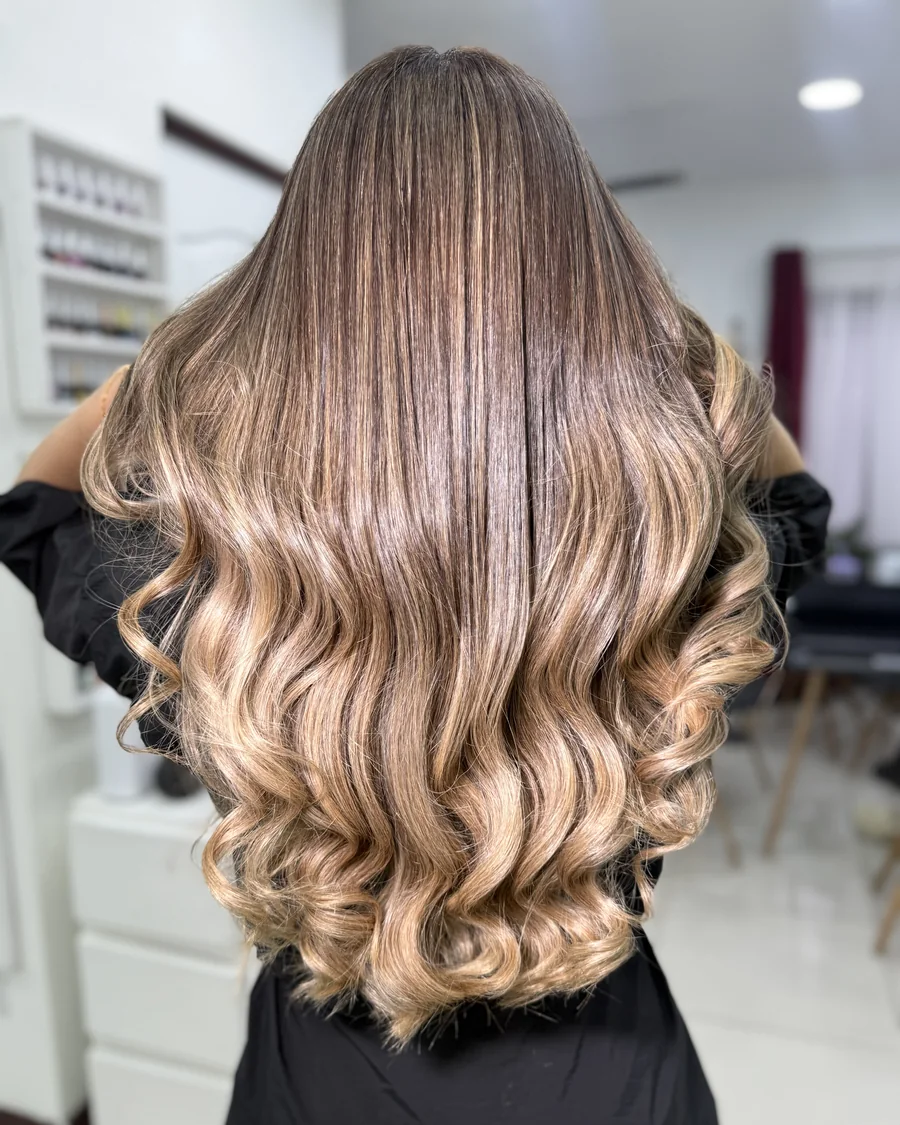
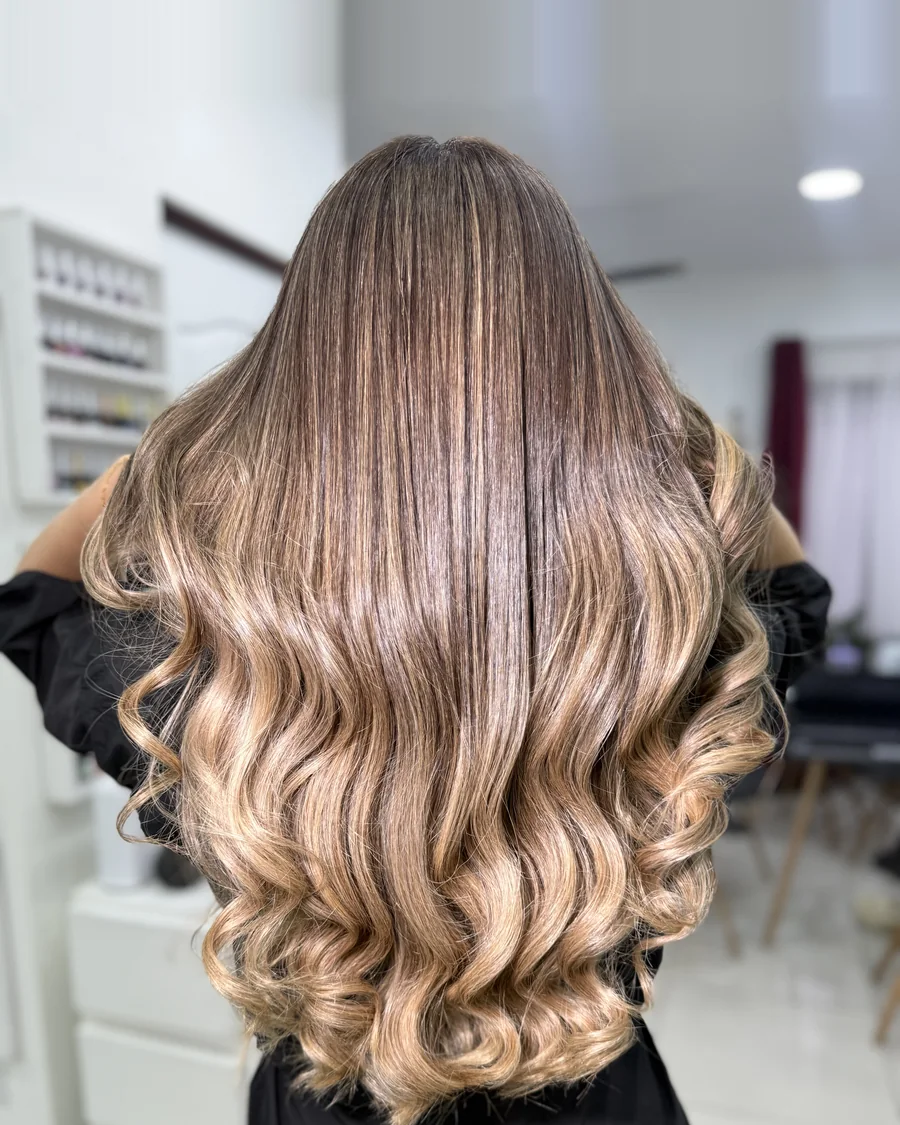
Portada: foto 9 centrada en la cara, foto 3 mas abajo y zoom anclado arriba

diff --git a/reservar.html b/reservar.html
@@ -10,7 +10,7 @@
 <link rel="preconnect" href="https://fonts.googleapis.com">
 <link rel="preconnect" href="https://fonts.gstatic.com" crossorigin>
 <link href="https://fonts.googleapis.com/css2?family=Montserrat:wght@300;400;500;600;700&family=Playfair+Display:ital,wght@0,400;0,500;0,600;0,700;1,400;1,500;1,600;1,700&display=swap" rel="stylesheet">
-<link rel="stylesheet" href="css/style.css?v=202610102036">
+<link rel="stylesheet" href="css/style.css?v=202610102053">
 </head>
 <body>
 
@@ -333,8 +333,8 @@
     <svg viewBox="0 0 24 24" fill="none" stroke="currentColor" stroke-width="1.6" aria-hidden="true"><path d="M4 20l1.3-4.2A7.7 7.7 0 1 1 9 18.6L4 20Z"/><path d="M8.5 9.7c0 3.3 2.7 6 6 6"/></svg>
   </a>
 
-  <script src="js/main.js?v=202610102036"></script>
-  <script src="js/services-data.js?v=202610102036"></script>
-  <script src="js/booking.js?v=202610102036"></script>
+  <script src="js/main.js?v=202610102053"></script>
+  <script src="js/services-data.js?v=202610102053"></script>
+  <script src="js/booking.js?v=202610102053"></script>
 </body>
 </html>

diff --git a/index.html b/index.html
@@ -17,7 +17,7 @@
 <link rel="preconnect" href="https://fonts.googleapis.com">
 <link rel="preconnect" href="https://fonts.gstatic.com" crossorigin>
 <link href="https://fonts.googleapis.com/css2?family=Montserrat:wght@300;400;500;600;700&family=Playfair+Display:ital,wght@0,400;0,500;0,600;0,700;1,400;1,500;1,600;1,700&display=swap" rel="stylesheet">
-<link rel="stylesheet" href="css/style.css?v=202610102036">
+<link rel="stylesheet" href="css/style.css?v=202610102053">
 </head>
 <body>
 
@@ -342,6 +342,6 @@
     <svg viewBox="0 0 24 24" fill="none" stroke="currentColor" stroke-width="1.6" aria-hidden="true"><path d="M4 20l1.3-4.2A7.7 7.7 0 1 1 9 18.6L4 20Z"/><path d="M8.5 9.7c0 3.3 2.7 6 6 6"/></svg>
   </a>
 
-  <script src="js/main.js?v=202610102036"></script>
+  <script src="js/main.js?v=202610102053"></script>
 </body>
 </html>

diff --git a/productos.html b/productos.html
@@ -10,7 +10,7 @@
 <link rel="preconnect" href="https://fonts.googleapis.com">
 <link rel="preconnect" href="https://fonts.gstatic.com" crossorigin>
 <link href="https://fonts.googleapis.com/css2?family=Montserrat:wght@300;400;500;600;700&family=Playfair+Display:ital,wght@0,400;0,500;0,600;0,700;1,400;1,500;1,600;1,700&display=swap" rel="stylesheet">
-<link rel="stylesheet" href="css/style.css?v=202610102036">
+<link rel="stylesheet" href="css/style.css?v=202610102053">
 </head>
 <body>
 
@@ -178,6 +178,6 @@
     <svg viewBox="0 0 24 24" fill="none" stroke="currentColor" stroke-width="1.6" aria-hidden="true"><path d="M4 20l1.3-4.2A7.7 7.7 0 1 1 9 18.6L4 20Z"/><path d="M8.5 9.7c0 3.3 2.7 6 6 6"/></svg>
   </a>
 
-  <script src="js/main.js?v=202610102036"></script>
+  <script src="js/main.js?v=202610102053"></script>
 </body>
 </html>

diff --git a/servicios-alisamientos.html b/servicios-alisamientos.html
@@ -10,7 +10,7 @@
 <link rel="preconnect" href="https://fonts.googleapis.com">
 <link rel="preconnect" href="https://fonts.gstatic.com" crossorigin>
 <link href="https://fonts.googleapis.com/css2?family=Montserrat:wght@300;400;500;600;700&family=Playfair+Display:ital,wght@0,400;0,500;0,600;0,700;1,400;1,500;1,600;1,700&display=swap" rel="stylesheet">
-<link rel="stylesheet" href="css/style.css?v=202610102036">
+<link rel="stylesheet" href="css/style.css?v=202610102053">
 </head>
 <body>
 
@@ -335,6 +335,6 @@
     <svg viewBox="0 0 24 24" fill="none" stroke="currentColor" stroke-width="1.6" aria-hidden="true"><path d="M4 20l1.3-4.2A7.7 7.7 0 1 1 9 18.6L4 20Z"/><path d="M8.5 9.7c0 3.3 2.7 6 6 6"/></svg>
   </a>
 
-  <script src="js/main.js?v=202610102036"></script>
+  <script src="js/main.js?v=202610102053"></script>
 </body>
 </html>

diff --git a/servicios-cirugia-capilar.html b/servicios-cirugia-capilar.html
@@ -10,7 +10,7 @@
 <link rel="preconnect" href="https://fonts.googleapis.com">
 <link rel="preconnect" href="https://fonts.gstatic.com" crossorigin>
 <link href="https://fonts.googleapis.com/css2?family=Montserrat:wght@300;400;500;600;700&family=Playfair+Display:ital,wght@0,400;0,500;0,600;0,700;1,400;1,500;1,600;1,700&display=swap" rel="stylesheet">
-<link rel="stylesheet" href="css/style.css?v=202610102036">
+<link rel="stylesheet" href="css/style.css?v=202610102053">
 </head>
 <body>
 
@@ -275,6 +275,6 @@
     <svg viewBox="0 0 24 24" fill="none" stroke="currentColor" stroke-width="1.6" aria-hidden="true"><path d="M4 20l1.3-4.2A7.7 7.7 0 1 1 9 18.6L4 20Z"/><path d="M8.5 9.7c0 3.3 2.7 6 6 6"/></svg>
   </a>
 
-  <script src="js/main.js?v=202610102036"></script>
+  <script src="js/main.js?v=202610102053"></script>
 </body>
 </html>

diff --git a/servicios-color-parejo.html b/servicios-color-parejo.html
@@ -10,7 +10,7 @@
 <link rel="preconnect" href="https://fonts.googleapis.com">
 <link rel="preconnect" href="https://fonts.gstatic.com" crossorigin>
 <link href="https://fonts.googleapis.com/css2?family=Montserrat:wght@300;400;500;600;700&family=Playfair+Display:ital,wght@0,400;0,500;0,600;0,700;1,400;1,500;1,600;1,700&display=swap" rel="stylesheet">
-<link rel="stylesheet" href="css/style.css?v=202610102036">
+<link rel="stylesheet" href="css/style.css?v=202610102053">
 </head>
 <body>
 
@@ -273,6 +273,6 @@
     <svg viewBox="0 0 24 24" fill="none" stroke="currentColor" stroke-width="1.6" aria-hidden="true"><path d="M4 20l1.3-4.2A7.7 7.7 0 1 1 9 18.6L4 20Z"/><path d="M8.5 9.7c0 3.3 2.7 6 6 6"/></svg>
   </a>
 
-  <script src="js/main.js?v=202610102036"></script>
+  <script src="js/main.js?v=202610102053"></script>
 </body>
 </html>

diff --git a/servicios-cortes.html b/servicios-cortes.html
@@ -10,7 +10,7 @@
 <link rel="preconnect" href="https://fonts.googleapis.com">
 <link rel="preconnect" href="https://fonts.gstatic.com" crossorigin>
 <link href="https://fonts.googleapis.com/css2?family=Montserrat:wght@300;400;500;600;700&family=Playfair+Display:ital,wght@0,400;0,500;0,600;0,700;1,400;1,500;1,600;1,700&display=swap" rel="stylesheet">
-<link rel="stylesheet" href="css/style.css?v=202610102036">
+<link rel="stylesheet" href="css/style.css?v=202610102053">
 </head>
 <body>
 
@@ -264,6 +264,6 @@
     <svg viewBox="0 0 24 24" fill="none" stroke="currentColor" stroke-width="1.6" aria-hidden="true"><path d="M4 20l1.3-4.2A7.7 7.7 0 1 1 9 18.6L4 20Z"/><path d="M8.5 9.7c0 3.3 2.7 6 6 6"/></svg>
   </a>
 
-  <script src="js/main.js?v=202610102036"></script>
+  <script src="js/main.js?v=202610102053"></script>
 </body>
 </html>

diff --git a/servicios-rizos.html b/servicios-rizos.html
@@ -10,7 +10,7 @@
 <link rel="preconnect" href="https://fonts.googleapis.com">
 <link rel="preconnect" href="https://fonts.gstatic.com" crossorigin>
 <link href="https://fonts.googleapis.com/css2?family=Montserrat:wght@300;400;500;600;700&family=Playfair+Display:ital,wght@0,400;0,500;0,600;0,700;1,400;1,500;1,600;1,700&display=swap" rel="stylesheet">
-<link rel="stylesheet" href="css/style.css?v=202610102036">
+<link rel="stylesheet" href="css/style.css?v=202610102053">
 </head>
 <body>
 
@@ -239,6 +239,6 @@
     <svg viewBox="0 0 24 24" fill="none" stroke="currentColor" stroke-width="1.6" aria-hidden="true"><path d="M4 20l1.3-4.2A7.7 7.7 0 1 1 9 18.6L4 20Z"/><path d="M8.5 9.7c0 3.3 2.7 6 6 6"/></svg>
   </a>
 
-  <script src="js/main.js?v=202610102036"></script>
+  <script src="js/main.js?v=202610102053"></script>
 </body>
 </html>

diff --git a/servicios-tecnica-color.html b/servicios-tecnica-color.html
@@ -10,7 +10,7 @@
 <link rel="preconnect" href="https://fonts.googleapis.com">
 <link rel="preconnect" href="https://fonts.gstatic.com" crossorigin>
 <link href="https://fonts.googleapis.com/css2?family=Montserrat:wght@300;400;500;600;700&family=Playfair+Display:ital,wght@0,400;0,500;0,600;0,700;1,400;1,500;1,600;1,700&display=swap" rel="stylesheet">
-<link rel="stylesheet" href="css/style.css?v=202610102036">
+<link rel="stylesheet" href="css/style.css?v=202610102053">
 </head>
 <body>
 
@@ -347,6 +347,6 @@
     <svg viewBox="0 0 24 24" fill="none" stroke="currentColor" stroke-width="1.6" aria-hidden="true"><path d="M4 20l1.3-4.2A7.7 7.7 0 1 1 9 18.6L4 20Z"/><path d="M8.5 9.7c0 3.3 2.7 6 6 6"/></svg>
   </a>
 
-  <script src="js/main.js?v=202610102036"></script>
+  <script src="js/main.js?v=202610102053"></script>
 </body>
 </html>

diff --git a/servicios-tratamientos-capilares.html b/servicios-tratamientos-capilares.html
@@ -10,7 +10,7 @@
 <link rel="preconnect" href="https://fonts.googleapis.com">
 <link rel="preconnect" href="https://fonts.gstatic.com" crossorigin>
 <link href="https://fonts.googleapis.com/css2?family=Montserrat:wght@300;400;500;600;700&family=Playfair+Display:ital,wght@0,400;0,500;0,600;0,700;1,400;1,500;1,600;1,700&display=swap" rel="stylesheet">
-<link rel="stylesheet" href="css/style.css?v=202610102036">
+<link rel="stylesheet" href="css/style.css?v=202610102053">
 </head>
 <body>
 
@@ -409,6 +409,6 @@
     <svg viewBox="0 0 24 24" fill="none" stroke="currentColor" stroke-width="1.6" aria-hidden="true"><path d="M4 20l1.3-4.2A7.7 7.7 0 1 1 9 18.6L4 20Z"/><path d="M8.5 9.7c0 3.3 2.7 6 6 6"/></svg>
   </a>
 
-  <script src="js/main.js?v=202610102036"></script>
+  <script src="js/main.js?v=202610102053"></script>
 </body>
 </html>

diff --git a/servicios.html b/servicios.html
@@ -10,7 +10,7 @@
 <link rel="preconnect" href="https://fonts.googleapis.com">
 <link rel="preconnect" href="https://fonts.gstatic.com" crossorigin>
 <link href="https://fonts.googleapis.com/css2?family=Montserrat:wght@300;400;500;600;700&family=Playfair+Display:ital,wght@0,400;0,500;0,600;0,700;1,400;1,500;1,600;1,700&display=swap" rel="stylesheet">
-<link rel="stylesheet" href="css/style.css?v=202610102036">
+<link rel="stylesheet" href="css/style.css?v=202610102053">
 </head>
 <body>
 
@@ -271,6 +271,6 @@
     <svg viewBox="0 0 24 24" fill="none" stroke="currentColor" stroke-width="1.6" aria-hidden="true"><path d="M4 20l1.3-4.2A7.7 7.7 0 1 1 9 18.6L4 20Z"/><path d="M8.5 9.7c0 3.3 2.7 6 6 6"/></svg>
   </a>
 
-  <script src="js/main.js?v=202610102036"></script>
+  <script src="js/main.js?v=202610102053"></script>
 </body>
 </html>

diff --git a/sobre-nosotros.html b/sobre-nosotros.html
@@ -10,7 +10,7 @@
 <link rel="preconnect" href="https://fonts.googleapis.com">
 <link rel="preconnect" href="https://fonts.gstatic.com" crossorigin>
 <link href="https://fonts.googleapis.com/css2?family=Montserrat:wght@300;400;500;600;700&family=Playfair+Display:ital,wght@0,400;0,500;0,600;0,700;1,400;1,500;1,600;1,700&display=swap" rel="stylesheet">
-<link rel="stylesheet" href="css/style.css?v=202610102036">
+<link rel="stylesheet" href="css/style.css?v=202610102053">
 </head>
 <body>
 
@@ -181,6 +181,6 @@
     <svg viewBox="0 0 24 24" fill="none" stroke="currentColor" stroke-width="1.6" aria-hidden="true"><path d="M4 20l1.3-4.2A7.7 7.7 0 1 1 9 18.6L4 20Z"/><path d="M8.5 9.7c0 3.3 2.7 6 6 6"/></svg>
   </a>
 
-  <script src="js/main.js?v=202610102036"></script>
+  <script src="js/main.js?v=202610102053"></script>
 </body>
 </html>
